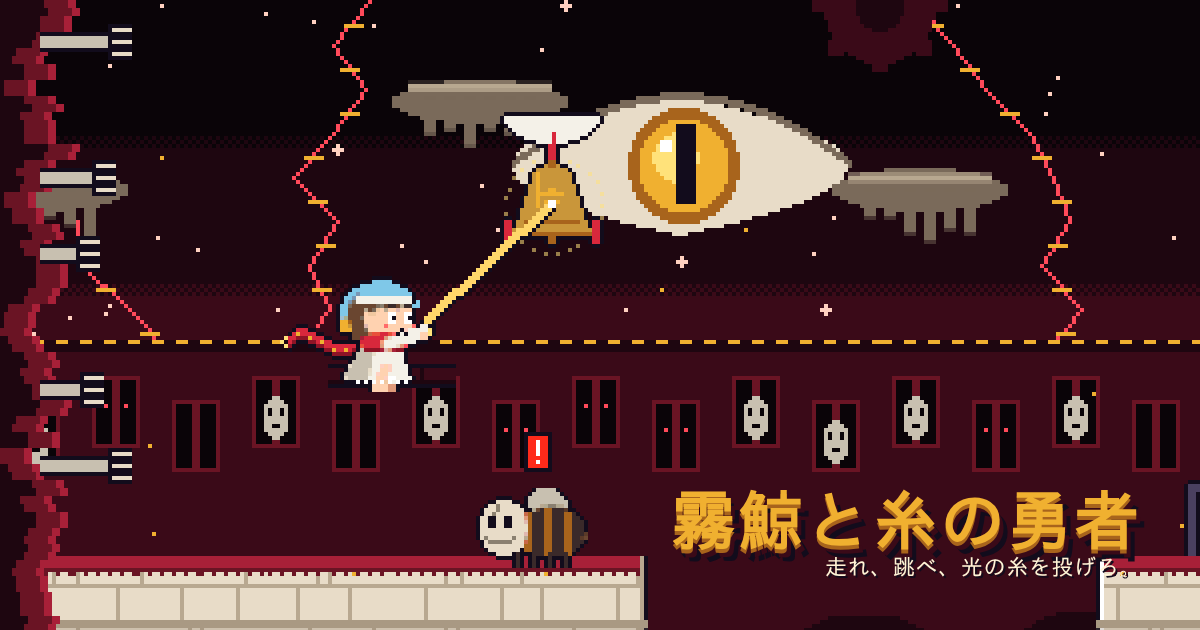
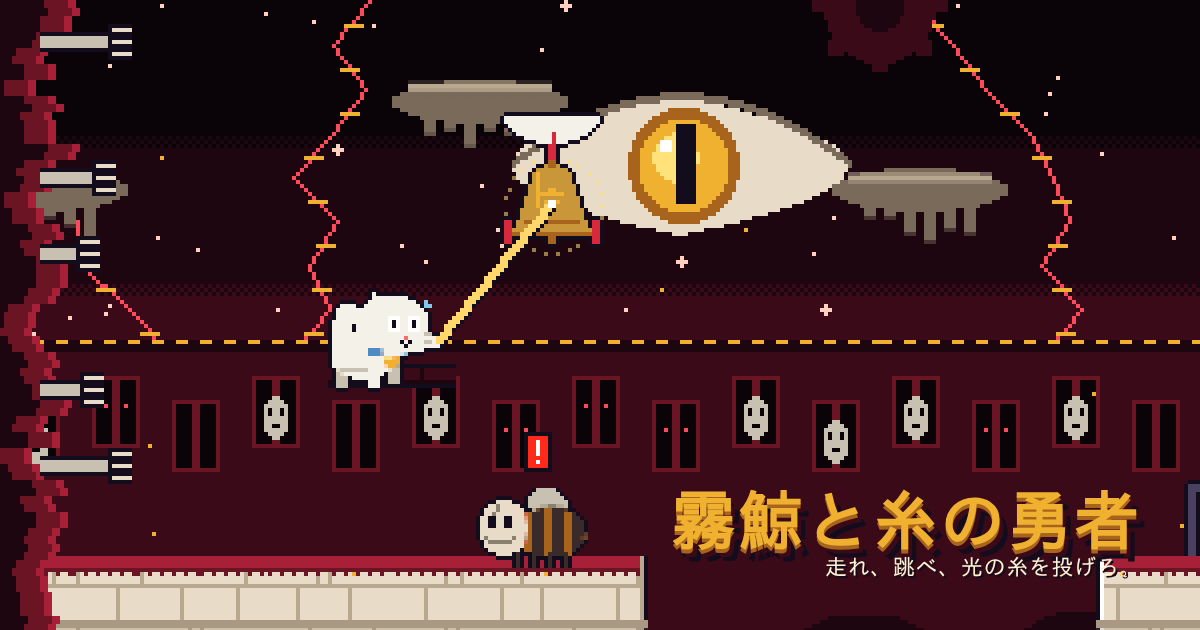
[GAME] 霧鯨と糸の勇者：主人公を白い子猫のミオに（金の鈴の首輪、毛糸を投げる。おびえると耳が倒れて毛が逆立つ）
Claude-Session: https://claude.ai/code/session_01MokQnt7AyWkb7A3uAYuoAR

Changed region(s): [[0.2158, 0.3317, 0.4625, 0.6333]]

diff --git a/site/games/mist-whale-thread-hero/pixart.js b/site/games/mist-whale-thread-hero/pixart.js
@@ -19,84 +19,68 @@ function blit(ctx, img, x, y, flip = false) {
   ctx.save(); ctx.translate(x + img.width, y); ctx.scale(-1, 1); ctx.drawImage(img, 0, 0); ctx.restore();
 }
 
-// ───────────────────────── 主人公：寝間着のミオ（小さくて弱い） ─────────────────────────
+// ───────────────────────── 主人公：子猫のミオ（白くて小さい） ─────────────────────────
 const HC = {
-  red: '#d8283c', redD: '#8e1426', gold: '#f0b030', goldL: '#ffe27a', goldD: '#a8641c',
-  skin: '#ffd2b0', skinD: '#e09a7a', hair: '#6a4630', hairD: '#3a2a2a', hairL: '#a8641c',
-  cap: '#7fc8e8', capD: '#4f8ac4', gown: '#f4f1e8', gownD: '#c8c0b0', white: '#ffffff', tear: '#7fc8e8',
+  fur: '#f4f1e8', furD: '#c8c0b0', ear: '#ffd0c0', nose: '#ff6b6b', eye: '#120c1c', white: '#ffffff', tear: '#7fc8e8',
+  collar: '#4f8ac4', gold: '#f0b030', goldL: '#ffe27a', yarn: '#f0b030',
 };
-const HW = 28; const HH = 32; const HCX = 13; // 足元は y=31
+const HW = 32; const HH = 28; const HCX = 15; // 足元は y=27
 function heroDraw(g, f) {
-  const b = f.bob || 0;
-  const sw = f.capSway || 0;
-  // ナイトキャップの垂れた先（後ろ）と小さな鈴
-  g.fillStyle = HC.cap; g.beginPath(); g.moveTo(9, 5 + b); g.quadraticCurveTo(3, 6 + b, 1 + sw, 14 + b); g.lineTo(4 + sw, 14 + b); g.quadraticCurveTo(6, 10 + b, 9, 10 + b); g.closePath(); g.fill();
-  g.fillStyle = HC.capD; g.fillRect(3 + sw, 11 + b, 2, 1);
-  g.fillStyle = HC.gold; g.beginPath(); g.ellipse(2.5 + sw, 15.5 + b, 1.9, 1.9, 0, 0, Math.PI * 2); g.fill();
-  // 後ろ髪（くしゃっとした茶色）
-  g.fillStyle = HC.hair; g.beginPath(); g.ellipse(12.5, 12.5 + b, 7.6, 7.2, 0, 0, Math.PI * 2); g.fill();
-  g.fillRect(6, 15 + b, 3, 4); g.fillRect(9, 17 + b, 2, 2);
-  // 後ろの腕（袖）
-  const leg = (hx, a, back) => {
-    const fx = hx + Math.sin(a) * 4.5; const fy = 27 + Math.cos(a) * 4;
-    g.strokeStyle = back ? HC.skinD : HC.skin; g.lineWidth = 2.6; g.lineCap = 'round';
-    g.beginPath(); g.moveTo(hx, 26 + b); g.lineTo(fx, fy); g.stroke();
-    g.fillStyle = back ? HC.skinD : HC.skin; g.fillRect(Math.round(fx) - 1, Math.round(fy) - 1, 4, 2);
+  const b = f.bob || 0; const puff = f.expr === 'scared' ? 1 : 0;
+  // しっぽ（後ろで揺れる。おびえると太くなる）
+  const ts = f.tail || 0;
+  g.strokeStyle = HC.fur; g.lineCap = 'round'; g.lineWidth = 3 + puff * 2;
+  g.beginPath(); g.moveTo(6, 20 + b); g.quadraticCurveTo(1 + ts, 18 + b, 2 + ts * 1.5, 11 + b - puff * 2); g.stroke();
+  // 脚
+  const leg = (x, a, back) => {
+    const fx = Math.round(x + a * 3); const lift = a > 0.3 ? 1 : 0;
+    g.fillStyle = back ? HC.furD : HC.fur; g.fillRect(fx - 1, 22 + b, 3, 5 - lift - b);
   };
-  leg(12, f.legB, true);
-  const arm = (a, back, mode) => {
-    const sx = back ? 12 : 15; const sy = 20 + b; let hx; let hy;
-    if (mode === 'throw') { hx = 24; hy = 17 + b; } else if (mode === 'up') { hx = 20; hy = 14 + b; } else if (mode === 'hug') { hx = 18; hy = 23 + b; } else { hx = sx + Math.sin(a) * 6; hy = sy + Math.cos(a) * 6; }
-    g.strokeStyle = back ? HC.gownD : HC.gown; g.lineWidth = 3.4; g.lineCap = 'round';
-    g.beginPath(); g.moveTo(sx, sy); g.lineTo(hx, hy); g.stroke();
-    g.fillStyle = HC.skin; g.fillRect(Math.round(hx) - 1, Math.round(hy), 2, 2);
-    return [hx, hy];
-  };
-  arm(-(f.armA || 0.2), true, f.arm === 'hug' ? 'hug' : 'down');
-  // 寝間着（ぶかぶか）
-  const fl = f.flare || 0;
-  g.fillStyle = HC.gown; g.beginPath(); g.moveTo(10, 18 + b); g.lineTo(17, 18 + b); g.lineTo(20 + fl * 0.4, 29 + b * 0.5); g.quadraticCurveTo(13, 30.5, 6 - fl, 29 - fl * 0.4); g.closePath(); g.fill();
-  g.fillStyle = HC.gownD; g.beginPath(); g.moveTo(10, 18 + b); g.lineTo(12, 18 + b); g.lineTo(10, 29.5); g.lineTo(6 - fl, 29 - fl * 0.4); g.closePath(); g.fill();
-  leg(14.5, f.legF, false);
-  // 顔
-  g.fillStyle = HC.skin; g.beginPath(); g.ellipse(15, 13.5 + b, 6.2, 5.6, 0, 0, Math.PI * 2); g.fill();
-  // 前髪
-  g.fillStyle = HC.hair; g.beginPath();
-  g.moveTo(8.5, 9 + b); g.lineTo(20.5, 8.5 + b); g.lineTo(20.5, 10.5 + b); g.lineTo(19, 9.8 + b); g.lineTo(17.6, 11.4 + b); g.lineTo(16.2, 10 + b); g.lineTo(14.4, 11.6 + b); g.lineTo(13, 10.2 + b); g.lineTo(11, 12.5 + b); g.lineTo(9.5, 11 + b); g.closePath(); g.fill();
-  // ナイトキャップ本体
-  g.fillStyle = HC.cap; g.beginPath(); g.moveTo(6.5, 9 + b); g.quadraticCurveTo(11, 0 + b, 21.5, 7.5 + b); g.lineTo(20.5, 9 + b); g.lineTo(7, 10 + b); g.closePath(); g.fill();
-  g.fillStyle = HC.gown; g.fillRect(7, 8 + b, 14, 2);
-  // 首の大きな赤いマフラー（顔の下にふわっと）
-  g.fillStyle = HC.red; g.beginPath(); g.ellipse(14, 19.5 + b, 6.4, 2.6, 0, 0, Math.PI * 2); g.fill();
-  g.fillStyle = HC.redD; g.fillRect(9, 21 + b, 10, 1);
-  // 手前の腕
-  const hand = arm(f.armA || 0.2, false, f.arm);
-  if (f.arm === 'throw') { g.fillStyle = HC.goldL; g.fillRect(Math.round(hand[0]) + 1, Math.round(hand[1]) - 3, 1, 4); }
-  f._hand = [hand[0] + 1, hand[1] - 3];
+  leg(8, -f.legA || 0, true); leg(15, f.legA || 0, true);
+  // 胴（小さなお豆）
+  g.fillStyle = HC.fur; g.beginPath(); g.ellipse(11, 20 + b, 7.5 + puff, 5 + puff, 0, 0, Math.PI * 2); g.fill();
+  g.fillStyle = HC.furD; g.fillRect(5, 23 + b, 10, 1);
+  leg(10, f.legA || 0, false); leg(16, -f.legA || 0, false);
+  // 大きな頭
+  const hy = 11 + b + (f.expr === 'scared' ? 1 : 0);
+  // 耳（おびえると後ろへ倒れる）
+  const flat = f.expr === 'scared' || f.expr === 'hurt';
+  g.fillStyle = HC.fur;
+  if (flat) { g.beginPath(); g.moveTo(10, hy - 4); g.lineTo(4, hy - 4); g.lineTo(10, hy - 1); g.fill(); g.beginPath(); g.moveTo(18, hy - 6); g.lineTo(12, hy - 8); g.lineTo(16, hy - 3); g.fill(); }
+  else { g.beginPath(); g.moveTo(10, hy - 4); g.lineTo(11, hy - 11); g.lineTo(16, hy - 6); g.fill(); g.beginPath(); g.moveTo(19, hy - 6); g.lineTo(24, hy - 11); g.lineTo(25, hy - 3); g.fill(); }
+  g.fillStyle = HC.fur; g.beginPath(); g.ellipse(18, hy, 9 + puff * 0.5, 7.6, 0, 0, Math.PI * 2); g.fill();
+  if (!flat) { g.fillStyle = HC.ear; g.beginPath(); g.moveTo(11.5, hy - 5); g.lineTo(12, hy - 8.5); g.lineTo(14.5, hy - 6); g.fill(); g.beginPath(); g.moveTo(21, hy - 6); g.lineTo(23.5, hy - 8.5); g.lineTo(23.5, hy - 4.5); g.fill(); }
+  // 首輪と鈴
+  g.fillStyle = HC.collar; g.fillRect(12, hy + 6, 10, 2);
+  g.fillStyle = HC.gold; g.beginPath(); g.ellipse(18, hy + 9, 2, 2, 0, 0, Math.PI * 2); g.fill();
+  // 前足（投げると上がる）
+  let hand;
+  if (f.paw === 'throw') { hand = [30, hy + 4]; g.strokeStyle = HC.fur; g.lineWidth = 3; g.beginPath(); g.moveTo(17, 19 + b); g.lineTo(hand[0], hand[1]); g.stroke(); }
+  else if (f.paw === 'up') { hand = [22, 13 + b]; g.strokeStyle = HC.fur; g.lineWidth = 3; g.beginPath(); g.moveTo(15, 19 + b); g.lineTo(hand[0], hand[1]); g.stroke(); }
+  else hand = [20, 22 + b];
+  f._hand = hand;
 }
 function heroInner(f) {
   return (g) => {
     const b = f.bob || 0; const e = f.expr || 'normal';
-    const y = 12 + b;
-    if (e === 'blink') { g.fillStyle = OUT; g.fillRect(15, y + 2, 2, 1); g.fillRect(19, y + 2, 2, 1); }
+    const y = 11 + b + (e === 'scared' ? 1 : 0);
+    if (e === 'blink') { g.fillStyle = HC.eye; g.fillRect(17, y + 1, 3, 1); g.fillRect(23, y + 1, 2, 1); }
     else if (e === 'hurt') {
-      g.fillStyle = OUT; g.fillRect(15, y + 1, 1, 1); g.fillRect(16, y + 2, 1, 1); g.fillRect(15, y + 3, 1, 1); g.fillRect(20, y + 1, 1, 1); g.fillRect(19, y + 2, 1, 1); g.fillRect(20, y + 3, 1, 1);
-      g.fillStyle = HC.tear; g.fillRect(16, y + 4, 1, 2); g.fillRect(20, y + 4, 1, 1);
+      g.fillStyle = HC.eye; g.fillRect(17, y - 1, 1, 1); g.fillRect(18, y, 1, 1); g.fillRect(17, y + 1, 1, 1); g.fillRect(24, y - 1, 1, 1); g.fillRect(23, y, 1, 1); g.fillRect(24, y + 1, 1, 1);
+      g.fillStyle = HC.tear; g.fillRect(18, y + 2, 1, 2); g.fillRect(22, y + 2, 1, 1);
     } else if (e === 'scared') {
-      g.fillStyle = HC.white; g.fillRect(15, y, 2, 3); g.fillRect(19, y, 2, 3);
-      g.fillStyle = OUT; g.fillRect(16, y + 1, 1, 1); g.fillRect(20, y + 1, 1, 1);
-      g.fillStyle = HC.hairD; g.fillRect(15, y - 2, 2, 1); g.fillRect(19, y - 2, 2, 1);
-      g.fillStyle = OUT; g.fillRect(17, y + 5, 1, 1); g.fillRect(18, y + 4, 1, 1); g.fillRect(19, y + 5, 1, 1);
-      g.fillStyle = HC.tear; g.fillRect(22, y - 3, 1, 2); g.fillRect(21, y - 2, 1, 1);
+      g.fillStyle = HC.white; g.fillRect(17, y - 2, 3, 4); g.fillRect(22, y - 2, 3, 4);
+      g.fillStyle = HC.eye; g.fillRect(18, y - 1, 1, 2); g.fillRect(23, y - 1, 1, 2);
+      g.fillStyle = HC.tear; g.fillRect(26, y - 6, 1, 2); g.fillRect(27, y - 5, 1, 1);
     } else {
-      g.fillStyle = OUT; g.fillRect(15, y, 2, 3); g.fillRect(19, y, 2, 3);
-      g.fillStyle = HC.white; g.fillRect(15, y, 1, 1); g.fillRect(19, y, 1, 1);
-      g.fillStyle = OUT; g.fillRect(18, y + 4, 1, 1);
+      g.fillStyle = HC.eye; g.fillRect(17, y - 2, 3, 4); g.fillRect(22, y - 2, 3, 4);
+      g.fillStyle = HC.white; g.fillRect(17, y - 2, 1, 1); g.fillRect(22, y - 2, 1, 1); g.fillRect(19, y + 1, 1, 1); g.fillRect(24, y + 1, 1, 1);
     }
-    g.fillStyle = '#ff6b6b'; g.fillRect(14, y + 3, 1, 1); g.fillRect(21, y + 3, 1, 1);
-    // 寝間着のレースと膝の絆創膏
-    g.fillStyle = HC.white; for (let x = 7; x <= 19; x += 2) g.fillRect(x, 29, 1, 1);
-    g.fillStyle = HC.white; g.fillRect(15, 28, 2, 1);
+    g.fillStyle = HC.nose; g.fillRect(21, y + 3, 1, 1);
+    g.fillStyle = HC.eye; g.fillRect(20, y + 4, 1, 1); g.fillRect(22, y + 4, 1, 1);
+    if (e === 'scared') { g.fillRect(21, y + 5, 1, 1); }
+    g.fillStyle = HC.goldL; g.fillRect(17, y + 8, 1, 1);
+    g.fillStyle = HC.furD; g.fillRect(26, y + 2, 2, 1); g.fillRect(26, y + 4, 2, 1);
   };
 }
 const heroCache = new Map();
@@ -112,56 +96,26 @@ function heroFrame(f) {
 export function heroPose(p, t, opts = {}) {
   const run = Math.abs(p.vx) > 20 && p.onGround;
   const air = !p.onGround;
-  const f = { bob: 0, legB: -0.15, legF: 0.15, arm: 'down', armA: 0.25, capSway: 0, flare: 0, expr: 'normal' };
-  if (run) {
-    const ph = Math.floor((p.anim * 0.06) / (Math.PI / 2)) % 4; const a = ph * Math.PI / 2;
-    f.legF = Math.sin(a) * 0.9; f.legB = -Math.sin(a) * 0.9; f.bob = ph % 2 ? -1 : 0;
-    f.armA = -Math.sin(a) * 1.0 + 0.4; f.capSway = ph % 2; f.flare = 1;
-  } else if (air) {
-    if (p.vy < 0) { f.legF = -0.5; f.legB = 0.5; f.arm = 'up'; f.capSway = 2; f.flare = 2; }
-    else { f.legF = 0.3; f.legB = -0.4; f.armA = 2.2; f.capSway = -1; f.flare = 1; }
-  } else if (opts.scared) {
-    f.arm = 'hug'; f.bob = 1; f.legF = 0.05; f.legB = -0.05;
-  } else if (Math.floor(t * 10) % 37 === 0) f.expr = 'blink';
+  const f = { bob: 0, legA: 0, paw: 'down', tail: Math.floor(t * 2) % 2, expr: 'normal' };
+  if (run) { const ph = Math.floor(p.anim * 0.07) % 4; f.legA = [0.8, 0, -0.8, 0][ph]; f.bob = ph % 2 ? -1 : 0; f.tail = ph % 2 ? 2 : 0; }
+  else if (air) { f.legA = p.vy < 0 ? 0.9 : -0.6; f.paw = p.vy < 0 ? 'up' : 'down'; f.tail = 3; f.bob = p.vy < 0 ? -1 : 0; }
+  else if (opts.scared) { f.bob = 1; }
+  else if (Math.floor(t * 10) % 37 === 0) f.expr = 'blink';
   if (opts.scared && !opts.hurt) f.expr = 'scared';
-  if (opts.throwing) f.arm = 'throw';
+  if (opts.throwing) f.paw = 'throw';
   if (opts.hurt) f.expr = 'hurt';
-  for (const k of ['legF', 'legB', 'armA']) f[k] = Math.round(f[k] * 10) / 10;
   return heroFrame(f);
-}
-
-// マフラーのしっぽ：ドットの鎖
-function scarf(ctx, x, y, face, t, wind, up) {
-  const len = 12 + Math.round(wind * 7);
-  for (let i = 0; i < len; i++) {
-    const u = i / len;
-    const wy = Math.round(Math.sin(t * 9 - u * 5.5) * (0.6 + u * 3 * wind) + u * (up ? 4 : 1.2));
-    const xx = x - face * (i + 1);
-    ctx.fillStyle = OUT; ctx.fillRect(xx, y + wy - 2, 1, 5);
-  }
-  for (let i = 0; i < len; i++) {
-    const u = i / len;
-    const wy = Math.round(Math.sin(t * 9 - u * 5.5) * (0.6 + u * 3 * wind) + u * (up ? 4 : 1.2));
-    const xx = x - face * (i + 1);
-    ctx.fillStyle = HC.red; ctx.fillRect(xx, y + wy - 1, 1, 3);
-    ctx.fillStyle = HC.redD; ctx.fillRect(xx, y + wy + 1, 1, 1);
-    if (i % 3 === 1) { ctx.fillStyle = HC.gold; ctx.fillRect(xx, y + wy, 1, 1); }
-    if (i === len - 1) { ctx.fillStyle = HC.goldL; ctx.fillRect(xx - face, y + wy - 1, 1, 1); ctx.fillRect(xx - face, y + wy + 1, 1, 1); ctx.fillRect(xx - face * 2, y + wy, 1, 1); }
-  }
 }
 
 export function drawHero(ctx, p, t, opts = {}) {
   const pose = heroPose(p, t, opts);
   const face = p.face || 1;
   const cx = X(p.x + p.w / 2); const foot = X(p.y + p.h);
-  const shiver = opts.scared && p.onGround && Math.floor(t * 30) % 4 === 0 ? (Math.floor(t * 60) % 2 ? 1 : -1) : 0;
+  const shiver = opts.scared && p.onGround && Math.floor(t * 30) % 3 === 0 ? (Math.floor(t * 60) % 2 ? 1 : -1) : 0;
   const sx = (face > 0 ? cx - HCX : cx - (HW - HCX)) + shiver;
   const sy = foot - HH + 1 + (p.landed > 0 ? 1 : 0);
   if (p.invuln > 0 && !opts.og && Math.floor(t * 16) % 2) return pose;
-  // 影
-  if (p.onGround) { ctx.fillStyle = 'rgba(18,12,28,.35)'; ctx.fillRect(cx - 5, foot, 11, 1); }
-  const wind = !p.onGround ? 1.4 : Math.abs(p.vx) > 20 ? 1 : 0.35;
-  scarf(ctx, face > 0 ? cx - 1 + shiver : cx + 1 + shiver, sy + 18 + (pose.bob || 0), face, t, wind, !p.onGround && p.vy < 0);
+  if (p.onGround) { ctx.fillStyle = 'rgba(18,12,28,.35)'; ctx.fillRect(cx - 6, foot, 13, 1); }
   blit(ctx, pose.img, sx, sy, face < 0);
   pose.handPx = [face > 0 ? sx + pose.hand[0] : sx + HW - pose.hand[0], sy + pose.hand[1]];
   return pose;
@@ -171,7 +125,6 @@ export function drawHeroBig(ctx, x, y, scale, t, opts = {}) {
   const p = { x: 0, y: 0, w: 0, h: 0, vx: opts.vx ?? 0, vy: opts.vy ?? 0, face: 1, onGround: opts.onGround ?? true, anim: t * 220, landed: 0, invuln: 0 };
   const pose = heroPose(p, t, opts);
   ctx.save(); ctx.translate(Math.round(x), Math.round(y)); ctx.scale(scale, scale);
-  scarf(ctx, 12, 18, 1, t, 1.4, false);
   ctx.drawImage(pose.img, 0, 0);
   ctx.restore();
   return [x + pose.hand[0] * scale, y + pose.hand[1] * scale];

diff --git a/site/games/mist-whale-thread-hero/logic.js b/site/games/mist-whale-thread-hero/logic.js
@@ -979,15 +979,15 @@ export function variantFor(save, i, rnd = Math.random) {
 // ───────────────────────── 物語 ─────────────────────────
 export const STORY = [
   {
-    lines: ['霧鯨は、空を泳ぎながら眠っている。', 'その背の草原で、星鈴がひとつ、またひとつ鳴った。', '「この子、夢の帰り道をなくしたんだ」', 'ミオは糸巻きを握りなおし、森へ向かう。'],
-    secret: '星鈴15個の回想：鯨の背中の草は、昔ミオが落とした髪紐の色をしていた。',
+    lines: ['霧鯨は、空を泳ぎながら眠っている。', 'その背の草原で、星鈴がひとつ、またひとつ鳴った。', '「この子、夢の帰り道をなくしたんだ」', '子猫のミオは毛糸玉をくわえなおし、森へ向かう。'],
+    secret: '星鈴15個の回想：鯨の背中の草は、ミオがなくした首輪のリボンの色をしていた。',
   },
   {
     lines: ['眠る森は、鯨が見た夢の残りかすでできている。', '牙灯も海蛇も、本当は夢を守る番人だった。', '「だれかが、夢の縫い目をほどいたんだね」', '森の奥で、空がひび割れる音がした。'],
-    secret: '星鈴15個の回想：海蛇の鱗には、ミオが小さいころ歌った子守唄が刻まれていた。',
+    secret: '星鈴15個の回想：海蛇の鱗には、ミオが生まれた夜に聞いた子守唄が刻まれていた。',
   },
   {
-    lines: ['夢の底で、ほつれは鯨の夢そのものを食べていた。', '3つの鐘が鳴り、霧は金色に変わる。', 'ミオは最後の糸を張り、割れた空を縫い止めた。', '霧鯨が、ゆっくりと目を開ける。'],
+    lines: ['夢の底で、ほつれは鯨の夢そのものを食べていた。', '3つの鐘が鳴り、霧は金色に変わる。', 'ミオは震える前足で最後の糸を張り、割れた空を縫い止めた。', '霧鯨が、ゆっくりと目を開ける。'],
     secret: '星鈴15個の回想：夢をほどいたのは、ひとりぼっちを怖がった鯨自身だった。',
   },
 ];

diff --git a/site/games/mist-whale-thread-hero/game.js b/site/games/mist-whale-thread-hero/game.js
@@ -319,10 +319,10 @@ function renderTitle() {
   ctx.fillStyle = '#24484a'; for (let x = 0; x < w; x += 3) ctx.fillRect(x, Math.round(h * 0.86) - 1 - (x % 9 === 0 ? 1 : 0), 1, 1);
   ctx.fillStyle = '#3e5468'; for (let x = 4; x < w; x += 23) ctx.fillRect(x, Math.round(h * 0.86) + 7 + (x % 3), 4, 1);
   // 主人公が星鈴へ糸を投げる（大きく）
-  const sc = h > 260 ? 3 : 2;
-  const hx = Math.round(Math.min(w * 0.14, 50)); const jump = Math.round(Math.abs(Math.sin(t * 2.2)) * 6);
-  const hy = Math.round(h * 0.86) - 36 * sc + 2 - jump;
-  const bx = Math.round(hx + Math.min(w * 0.36, 130)); const by = Math.round(h * 0.86) - 36 * sc - 28 + Math.round(Math.sin(t * 2) * 2);
+  const sc = w < 200 ? 2 : h > 260 ? 3 : 2;
+  const hx = Math.round(Math.min(w * 0.12, 50)); const jump = Math.round(Math.abs(Math.sin(t * 2.2)) * 6);
+  const hy = Math.round(h * 0.86) - 28 * sc + sc - jump;
+  const bx = Math.round(hx + Math.min(w * 0.4, 140)); const by = Math.round(h * 0.86) - 28 * sc - 30 + Math.round(Math.sin(t * 2) * 2);
   const hand = P.drawHeroBig(ctx, hx, hy, sc, t, { throwing: true, onGround: false, vy: -10 });
   P.drawThread(ctx, { x: hand[0], y: hand[1] }, { x: bx, y: by }, colorNow(), 'hold', 1);
   P.drawStarBell(ctx, bx, by, t, 2);
